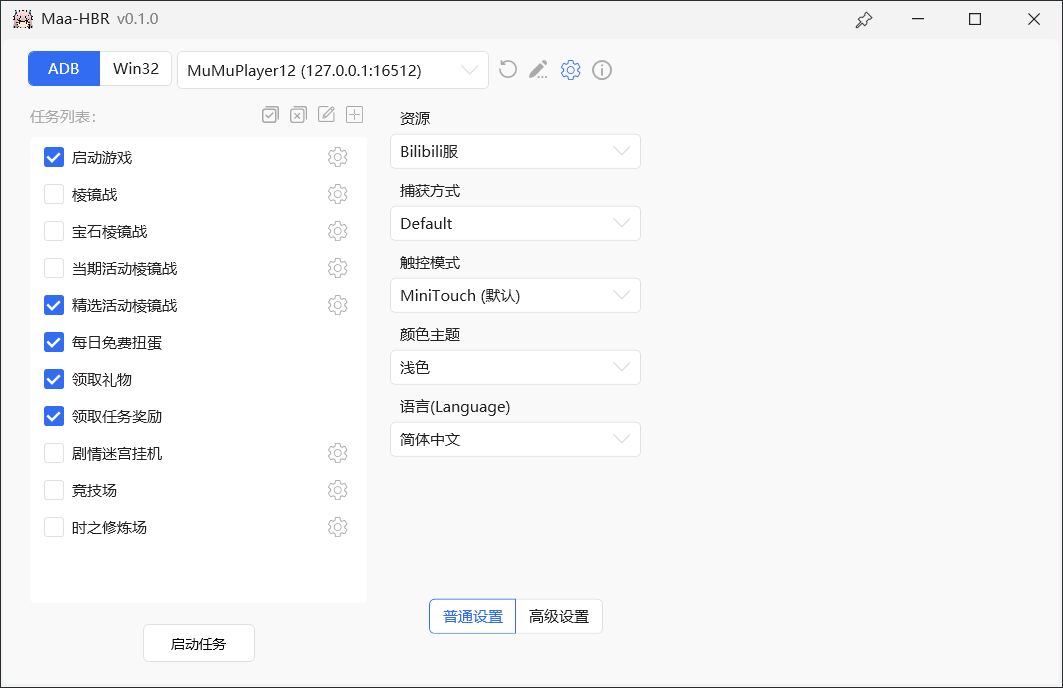
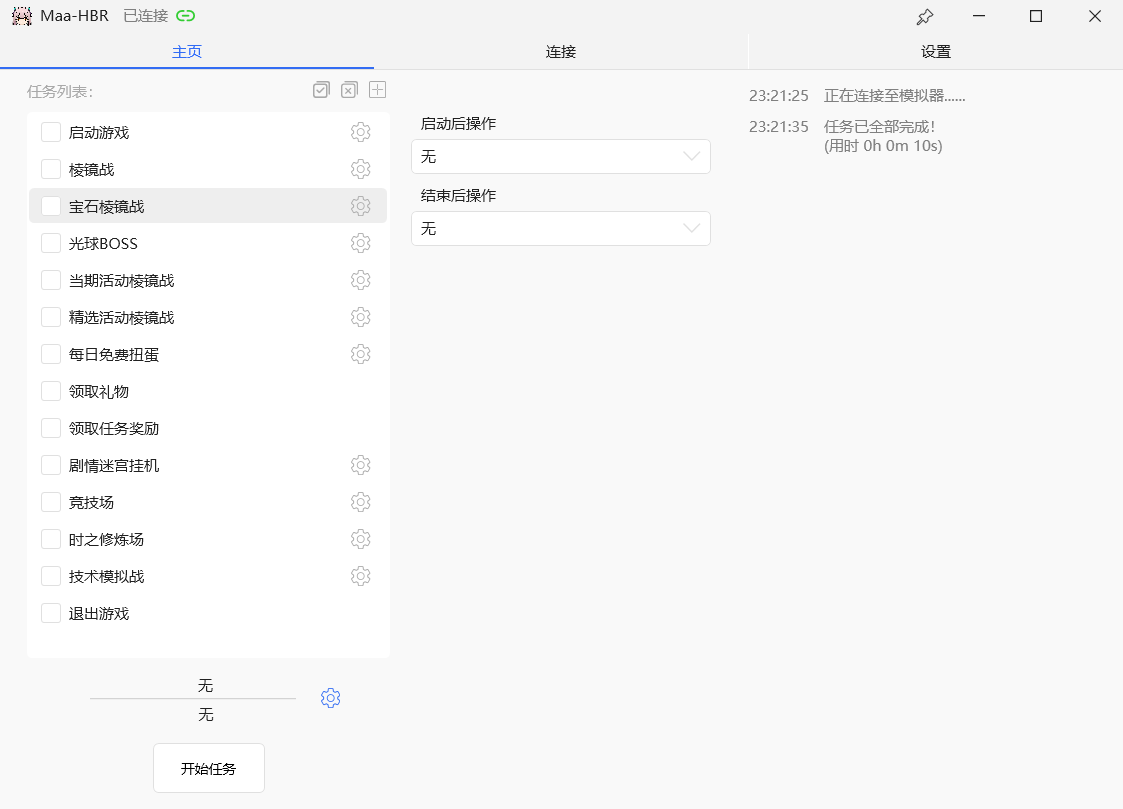
docs: update README

diff --git a/README.md b/README.md
@@ -12,6 +12,10 @@
 基于Maa全新架构的HBR自动化小助手
 <!-- prettier-ignore-end -->
 
+![GitHub License](https://img.shields.io/github/license/KarylDAZE/Maa-HBR)
+![GitHub Repo stars](https://img.shields.io/github/stars/KarylDAZE/Maa-HBR)
+![GitHub Downloads (all assets, all releases)](https://img.shields.io/github/downloads/KarylDAZE/Maa-HBR/total)
+[![mirrorc](https://img.shields.io/badge/Mirror%E9%85%B1-%239af3f6?logo=countingworkspro&logoColor=4f46e5)](https://mirrorchyan.com/zh/projects)
 
 </div>
 
@@ -53,20 +57,17 @@ GUI界面：![GUI](assets/resource/image/GUI.png)
 
 ## Q&A
 - Q：为什么竞技场和时之修炼场需要在线挂机？
-- A：竞技场和时之修炼场离线挂机的每场战斗耗时分别min(通关时间+20s,50s)和min(通关时间+20s,80s)，而在线挂机每场战斗的“额外消耗时间”（过场和加载时间）约为8s左右（如果设备和网络环境较差，耗时可能更长），即每场战斗耗时为通关时间+额外消耗时间=通关时间+8s，收益更高。
+- A：竞技场和时之修炼场离线挂机的每场战斗耗时分别min(通关时间+20s,50s)和min(通关时间+20s,80s)，而在线挂机每场战斗的“额外消耗时间”（过场和加载时间）约为8s左右（如果设备和网络环境较差，耗时可能更长）（当前游戏版本普遍存在长时间挂机后游戏变得非常卡顿的情况），即每场战斗耗时为通关时间+额外消耗时间=通关时间+8s，收益更高。
 - Q：为什么要在剧情迷宫挂机？
 - A：1、剧情迷宫刷取斩突打溶液效率远高于竞技场和时之修炼场。2、剧情迷宫战斗可以提升技能等级，而竞技场和时之修炼场不行。
-
+- Q：为什么要在技术模拟战挂机？
+- A：技术模拟战可以在竞技场/时之修炼场离线挂机的同时挂机，并且可以升级风格技能，但效率可能低于剧情迷宫挂机。
 
 ## TODO
 
-- [x] 每日免费抽卡
 - [ ] 自动炼金
 - [ ] 饰品自动洗词条
-- [x] 光球boss
-- [x] 精选活动棱镜战
 - [ ] 刷属性回廊
-- [x] 2-25挂机
 - [ ] 夏日泳装热带庆典挂机
 - [ ] BOSS战失败重新挑战？
 
